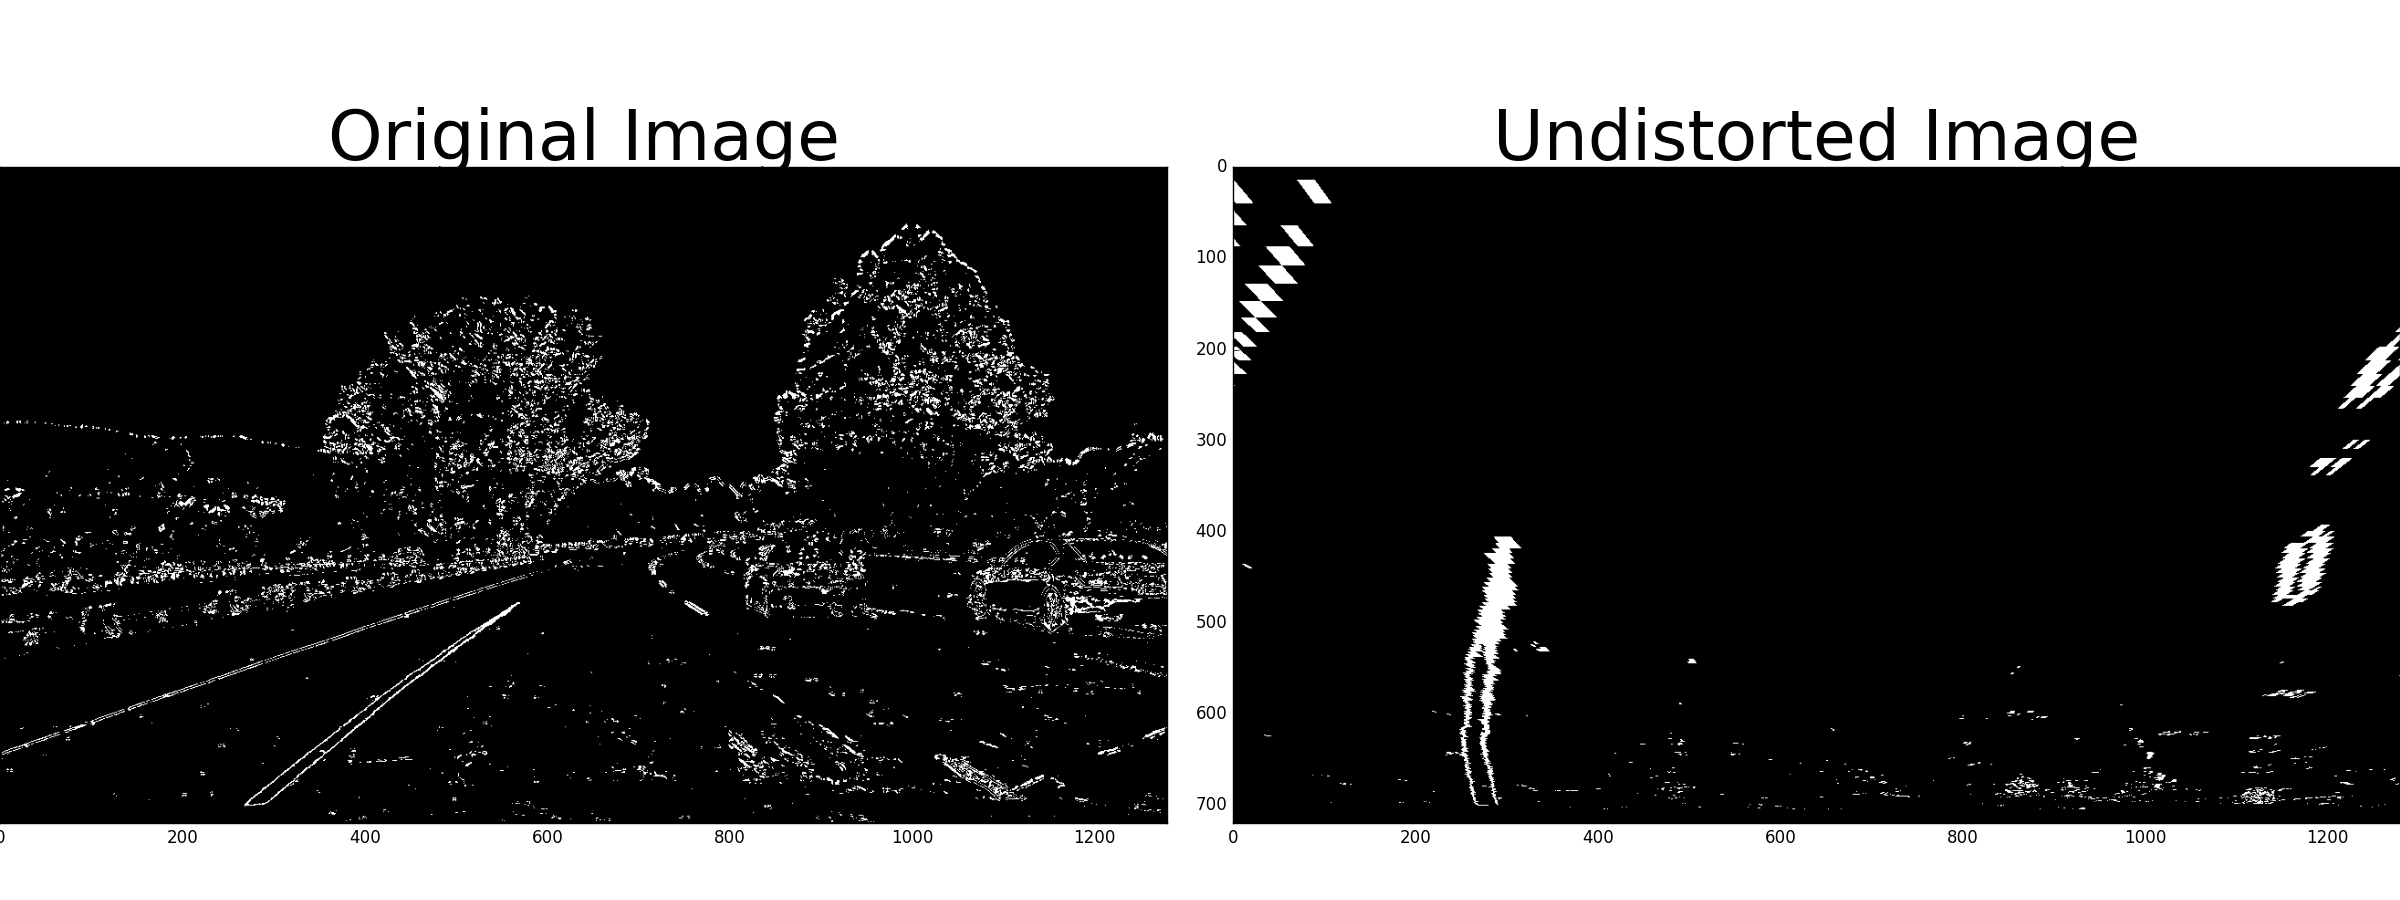
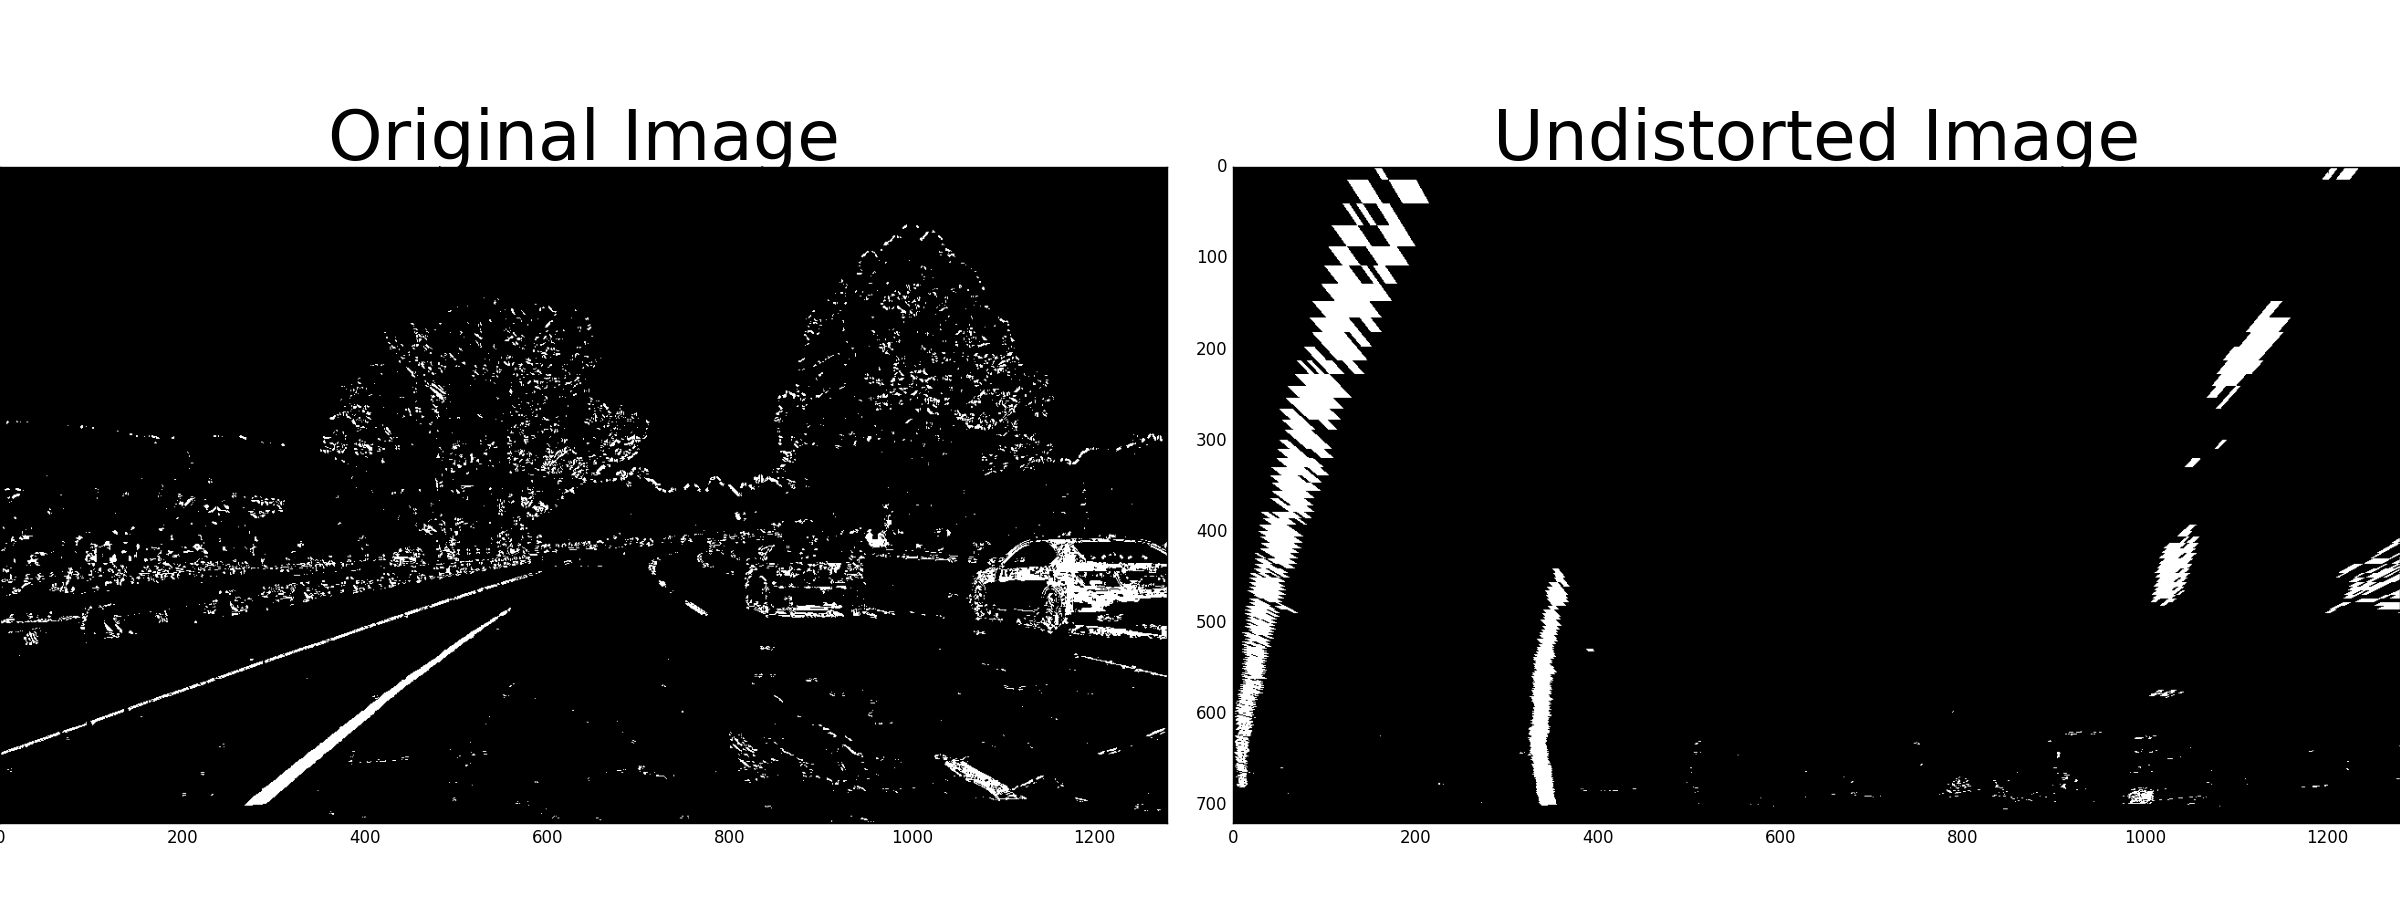
update pipeline

diff --git a/image_pipeline.py b/image_pipeline.py
@@ -9,33 +9,36 @@ from transforamtion_pipeline import transform_image
 
 from utils import save_image, draw_lines
 
-# SAVE_FILE_CALIBRATION = 'output_images/1_undistorting.png'
-# SAVE_FILE_TEST = 'output_images/2.1_undistorting_test.png'
-# SAVE_FILE_TEST2 = 'output_images/2.2_undistorting_test2.png'
-# SAVE_FILE_TEST_TRANSFORMED = 'output_images/3.1_transformed_test.png'
-# SAVE_FILE_TEST2_TRANSFORMED = 'output_images/3.2_transformed_test2.png'
-# SAVE_PERSPECTIVE_TRANSFORM_1 = 'output_images/4.1_transformed_straight_lines1.png'
-# SAVE_PERSPECTIVE_TRANSFORM_1_2 = 'output_images/4.1_canny_transformed_straight_lines1.png'
-# SAVE_PERSPECTIVE_TRANSFORM_2 = 'output_images/4.2_transformed_straight_lines2.png'
-# SAVE_PERSPECTIVE_TRANSFORM_2_2 = 'output_images/4.2_canny_transformed_straight_lines2.png'
-# SAVE_PERSPECTIVE_TRANSFORM_3 = 'output_images/4.3_transformed_test1.png'
-# SAVE_PERSPECTIVE_TRANSFORM_3_2 = 'output_images/4.3_canny_transformed_test1.png'
-# SAVE_PERSPECTIVE_TRANSFORM_4 = 'output_images/4.4_transformed_test5.png'
-# SAVE_PERSPECTIVE_TRANSFORM_4_2 = 'output_images/4.4_canny_transformed_test5.png'
+SAVE = True
 
-SAVE_FILE_CALIBRATION = False
-SAVE_FILE_TEST = False
-SAVE_FILE_TEST2 = False
-SAVE_FILE_TEST_TRANSFORMED = False
-SAVE_FILE_TEST2_TRANSFORMED = False
-SAVE_PERSPECTIVE_TRANSFORM_1 = False
-SAVE_PERSPECTIVE_TRANSFORM_1_2 = False
-SAVE_PERSPECTIVE_TRANSFORM_2 = False
-SAVE_PERSPECTIVE_TRANSFORM_2_2 = False
-SAVE_PERSPECTIVE_TRANSFORM_3 = False
-SAVE_PERSPECTIVE_TRANSFORM_3_2 = False
-SAVE_PERSPECTIVE_TRANSFORM_4 = False
-SAVE_PERSPECTIVE_TRANSFORM_4_2 = False
+if SAVE:
+    SAVE_FILE_CALIBRATION = 'output_images/1_undistorting.png'
+    SAVE_FILE_TEST = 'output_images/2.1_undistorting_test.png'
+    SAVE_FILE_TEST2 = 'output_images/2.2_undistorting_test2.png'
+    SAVE_FILE_TEST_TRANSFORMED = 'output_images/3.1_transformed_test.png'
+    SAVE_FILE_TEST2_TRANSFORMED = 'output_images/3.2_transformed_test2.png'
+    SAVE_PERSPECTIVE_TRANSFORM_1 = 'output_images/4.1_transformed_straight_lines1.png'
+    SAVE_PERSPECTIVE_TRANSFORM_1_2 = 'output_images/4.1_canny_transformed_straight_lines1.png'
+    SAVE_PERSPECTIVE_TRANSFORM_2 = 'output_images/4.2_transformed_straight_lines2.png'
+    SAVE_PERSPECTIVE_TRANSFORM_2_2 = 'output_images/4.2_canny_transformed_straight_lines2.png'
+    SAVE_PERSPECTIVE_TRANSFORM_3 = 'output_images/4.3_transformed_test1.png'
+    SAVE_PERSPECTIVE_TRANSFORM_3_2 = 'output_images/4.3_canny_transformed_test1.png'
+    SAVE_PERSPECTIVE_TRANSFORM_4 = 'output_images/4.4_transformed_test5.png'
+    SAVE_PERSPECTIVE_TRANSFORM_4_2 = 'output_images/4.4_canny_transformed_test5.png'
+else:
+    SAVE_FILE_CALIBRATION = False
+    SAVE_FILE_TEST = False
+    SAVE_FILE_TEST2 = False
+    SAVE_FILE_TEST_TRANSFORMED = False
+    SAVE_FILE_TEST2_TRANSFORMED = False
+    SAVE_PERSPECTIVE_TRANSFORM_1 = False
+    SAVE_PERSPECTIVE_TRANSFORM_1_2 = False
+    SAVE_PERSPECTIVE_TRANSFORM_2 = False
+    SAVE_PERSPECTIVE_TRANSFORM_2_2 = False
+    SAVE_PERSPECTIVE_TRANSFORM_3 = False
+    SAVE_PERSPECTIVE_TRANSFORM_3_2 = False
+    SAVE_PERSPECTIVE_TRANSFORM_4 = False
+    SAVE_PERSPECTIVE_TRANSFORM_4_2 = False
 
 
 def generate_corners():

diff --git a/utils.py b/utils.py
@@ -1,6 +1,7 @@
 import cv2
 import matplotlib.pyplot as plt
-from image_correction import LEFT_BOTTOM, LEFT_TOP, RIGHT_BOTTOM, RIGHT_TOP, LEFT_TOP_WARPED, RIGHT_TOP_WARPED
+from image_correction import LEFT_BOTTOM, LEFT_TOP, RIGHT_BOTTOM, RIGHT_TOP, LEFT_TOP_WARPED, RIGHT_TOP_WARPED, \
+    LEFT_BOTTOM_WARPED, RIGHT_BOTTOM_WARPED
 
 
 def save_image(image1, image2, save, gray=False, gray2=False):
@@ -27,14 +28,18 @@ def save_image(image1, image2, save, gray=False, gray2=False):
 def draw_lines(image, warped=False):
     if warped:
         left_top = LEFT_TOP_WARPED
+        left_bottom = LEFT_BOTTOM_WARPED
         right_top = RIGHT_TOP_WARPED
+        right_bottom = RIGHT_BOTTOM_WARPED
     else:
         left_top = LEFT_TOP
+        left_bottom = LEFT_BOTTOM
         right_top = RIGHT_TOP
+        right_bottom = RIGHT_BOTTOM
 
-    cv2.line(image, LEFT_BOTTOM, left_top, (255, 0, 0), 3)
-    cv2.line(image, RIGHT_BOTTOM, right_top, (255, 0, 0), 3)
-    cv2.line(image, LEFT_BOTTOM, RIGHT_BOTTOM, (255, 0, 0), 3)
+    cv2.line(image, left_bottom, left_top, (255, 0, 0), 3)
+    cv2.line(image, right_bottom, right_top, (255, 0, 0), 3)
+    cv2.line(image, left_bottom, right_bottom, (255, 0, 0), 3)
     cv2.line(image, left_top, right_top, (255, 0, 0), 3)
 
     return image

diff --git a/transforamtion_pipeline.py b/transforamtion_pipeline.py
@@ -4,7 +4,7 @@ import cv2
 import numpy as np
 
 
-def __abs_sobel_thresh(img, orient='x', sobel_kernel=3, thresh=(20, 80)):
+def __abs_sobel_thresh(img, orient='x', sobel_kernel=3, thresh=(30, 150)):
     """
                          Performs sobel transform of the image
 
@@ -27,7 +27,7 @@ def __abs_sobel_thresh(img, orient='x', sobel_kernel=3, thresh=(20, 80)):
     return mask_binary
 
 
-def __mag_thresh(img, sobel_kernel=3, mag_thresh=(30, 100)):
+def __mag_thresh(img, sobel_kernel=3, mag_thresh=(40, 100)):
     """
                          Performs sobel magnitude transform
 
@@ -71,7 +71,7 @@ def __dir_threshold(img, sobel_kernel=15, thresh=(0.7, 1.3)):
     return binary_output
 
 
-def transform_image(img, s_thresh=(180, 240), sx_thresh=(20, 60)):
+def transform_image(img, s_thresh=(200, 255), sx_thresh=(20, 60)):
     """
                       Applies transformation pipeline to the initial image
 

diff --git a/image_correction.py b/image_correction.py
@@ -11,11 +11,23 @@ LEFT_TOP = (600, 447)
 RIGHT_TOP = (683, 447)
 RIGHT_BOTTOM = (1078, 700)
 
-LEFT_TOP_WARPED = (245, 1)
-RIGHT_TOP_WARPED = (1078, 1)
+LEFT_TOP_WARPED = (320, 1)
+LEFT_BOTTOM_WARPED = (320, 700)
+RIGHT_TOP_WARPED = (960, 1)
+RIGHT_BOTTOM_WARPED = (960, 700)
+
+# LEFT_BOTTOM = (203, 720)
+# LEFT_TOP = (585, 460)
+# RIGHT_TOP = (695, 460)
+# RIGHT_BOTTOM = (1127, 720)
+#
+# LEFT_TOP_WARPED = (320, 0)
+# LEFT_BOTTOM_WARPED = (320, 720)
+# RIGHT_TOP_WARPED = (960, 0)
+# RIGHT_BOTTOM_WARPED = (960, 720)
 
 SRC = np.float32([LEFT_BOTTOM, LEFT_TOP, RIGHT_TOP, RIGHT_BOTTOM])
-DST = np.float32([LEFT_BOTTOM, LEFT_TOP_WARPED, RIGHT_TOP_WARPED, RIGHT_BOTTOM])
+DST = np.float32([LEFT_BOTTOM_WARPED, LEFT_TOP_WARPED, RIGHT_TOP_WARPED, RIGHT_BOTTOM_WARPED])
 
 
 def find_corners(img, nx, ny):
